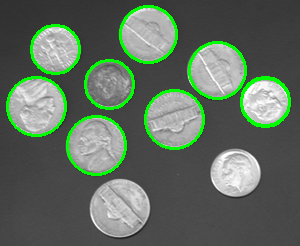
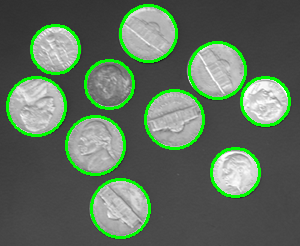
finished hw1

diff --git a/p1_object_attributes.py b/p1_object_attributes.py
@@ -6,7 +6,7 @@ import math
 
 
 def binarize(gray_image, thresh_val):
-    # TODO: 255 if intensity >= thresh_val else 0
+    # 255 if intensity >= thresh_val else 0
     binary_image = np.where(gray_image >= thresh_val, 255, 0)
     return binary_image
 
@@ -38,8 +38,6 @@ def label(binary_image):
     def merge(i1, j1, i2, j2):
         root_i, root_j = coordinate(find(i1,j1))
         parent[root_i][root_j] = find(i2,j2)
-    
-    # union_find_init(parent)
 
     # sequence labeling
     i = j = 0
@@ -48,18 +46,14 @@ def label(binary_image):
             parent[i][j] = -1
         else:
             if i > 0 and j > 0:
-                # if parent[i-1][j-1] != -1:
                 if binary_image[i-1][j-1] == 1:
                     parent[i][j] = index(i-1,j-1)
-                # elif parent[i-1][j] == -1 and parent[i][j-1] != -1:
                 elif binary_image[i-1][j] == 0 and binary_image[i][j-1] == 1:
                     parent[i][j] = index(i,j-1)
-                    # parent[i][j] = parent[i][j-1]
                 elif binary_image[i-1][j] == 1 and binary_image[i][j-1] == 0:
                     parent[i][j] = index(i-1,j)
                 elif binary_image[i-1][j] == 1 and binary_image[i][j-1] == 1:
                     merge(i-1,j,i,j-1)
-                    # print("merge",i-1,j,"and",i,j-1)
                     parent[i][j] = index(i-1,j)
                 else:
                     assert parent[i-1][j] == -1 and parent[i][j-1] == -1, "Labeling error."
@@ -111,10 +105,10 @@ def label(binary_image):
 
 
 def get_attribute(labeled_image):
-    # TODO
-    height, width = labeled_image.shape
 
+    height, width = labeled_image.shape
     object_dict = {}
+
     count = 0
     i = j = 0
     while i < height:
@@ -185,7 +179,7 @@ def get_attribute(labeled_image):
         attribute_list[i]['position'] = {'x':xbar[i],'y':ybar[i]}
 
         if a[i] - c[i] != 0:
-            theta1 = 0.5 * math.atan(2*b[i]/(a[i]-c[i]))  
+            theta1 = 0.5 * math.atan2(b[i], a[i]-c[i])  
         else:
             theta1 = math.pi/2     
         attribute_list[i]['orientation'] = theta1

diff --git a/p2_hough_circles.py b/p2_hough_circles.py
@@ -61,7 +61,6 @@ def hough_circles(edge_image, edge_thresh, radius_values):
     edge_pixels = np.argwhere(thresh_edge_image > 0)
     
     for r_index, radius in enumerate(radius_values):
-        print(radius,"\n")
         for (x,y) in edge_pixels:
             for theta in range(0,360,5):
                 a = round(x-radius*np.cos(np.deg2rad(theta)))
@@ -97,7 +96,13 @@ def find_circles(image, accum_array, radius_values, hough_thresh):
     circle_image = image
 
     for (r_index, a, b) in centers:
+        exist = False
         r = radius_values[r_index]
+        for (rr, aa, bb) in circles:
+            if (aa-a)**2 + (bb-b)**2 < 2 and (rr - r)**2 < 2:
+                exist = True
+        if exist:
+            continue
         cv2.circle(circle_image, (b,a), r, (0,255,0), thickness=2)
         circles.append((r,a,b))
     return circles, circle_image
@@ -113,6 +118,7 @@ def main():
 
     edge_image = detect_edges(gray_image)
     thresh_edge_image, accum_array = hough_circles(edge_image, edge_thresh, radius_values)
+    # print(accum_array[:10,:10,:10])
     circles_list, circle_image = find_circles(img, accum_array, radius_values, hough_thresh)
 
     cv2.imwrite('output/' + img_name + "_gray.png", gray_image)
